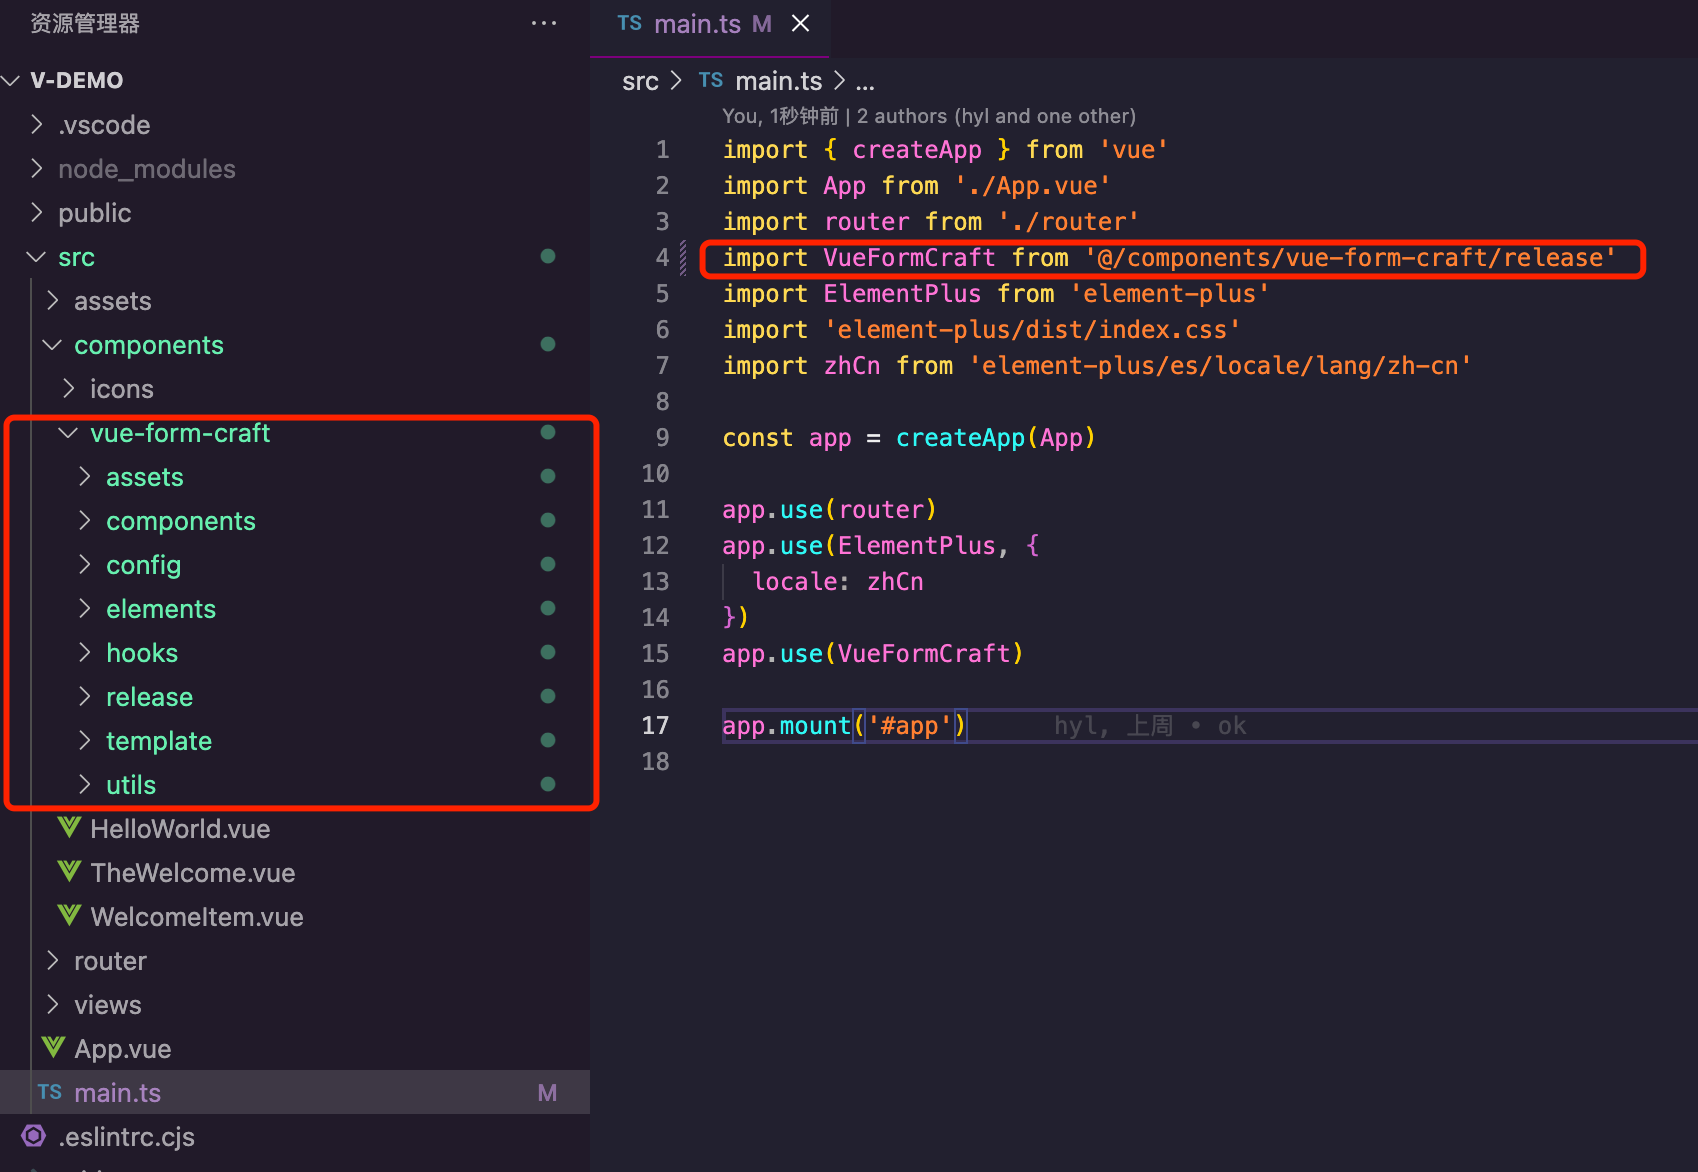
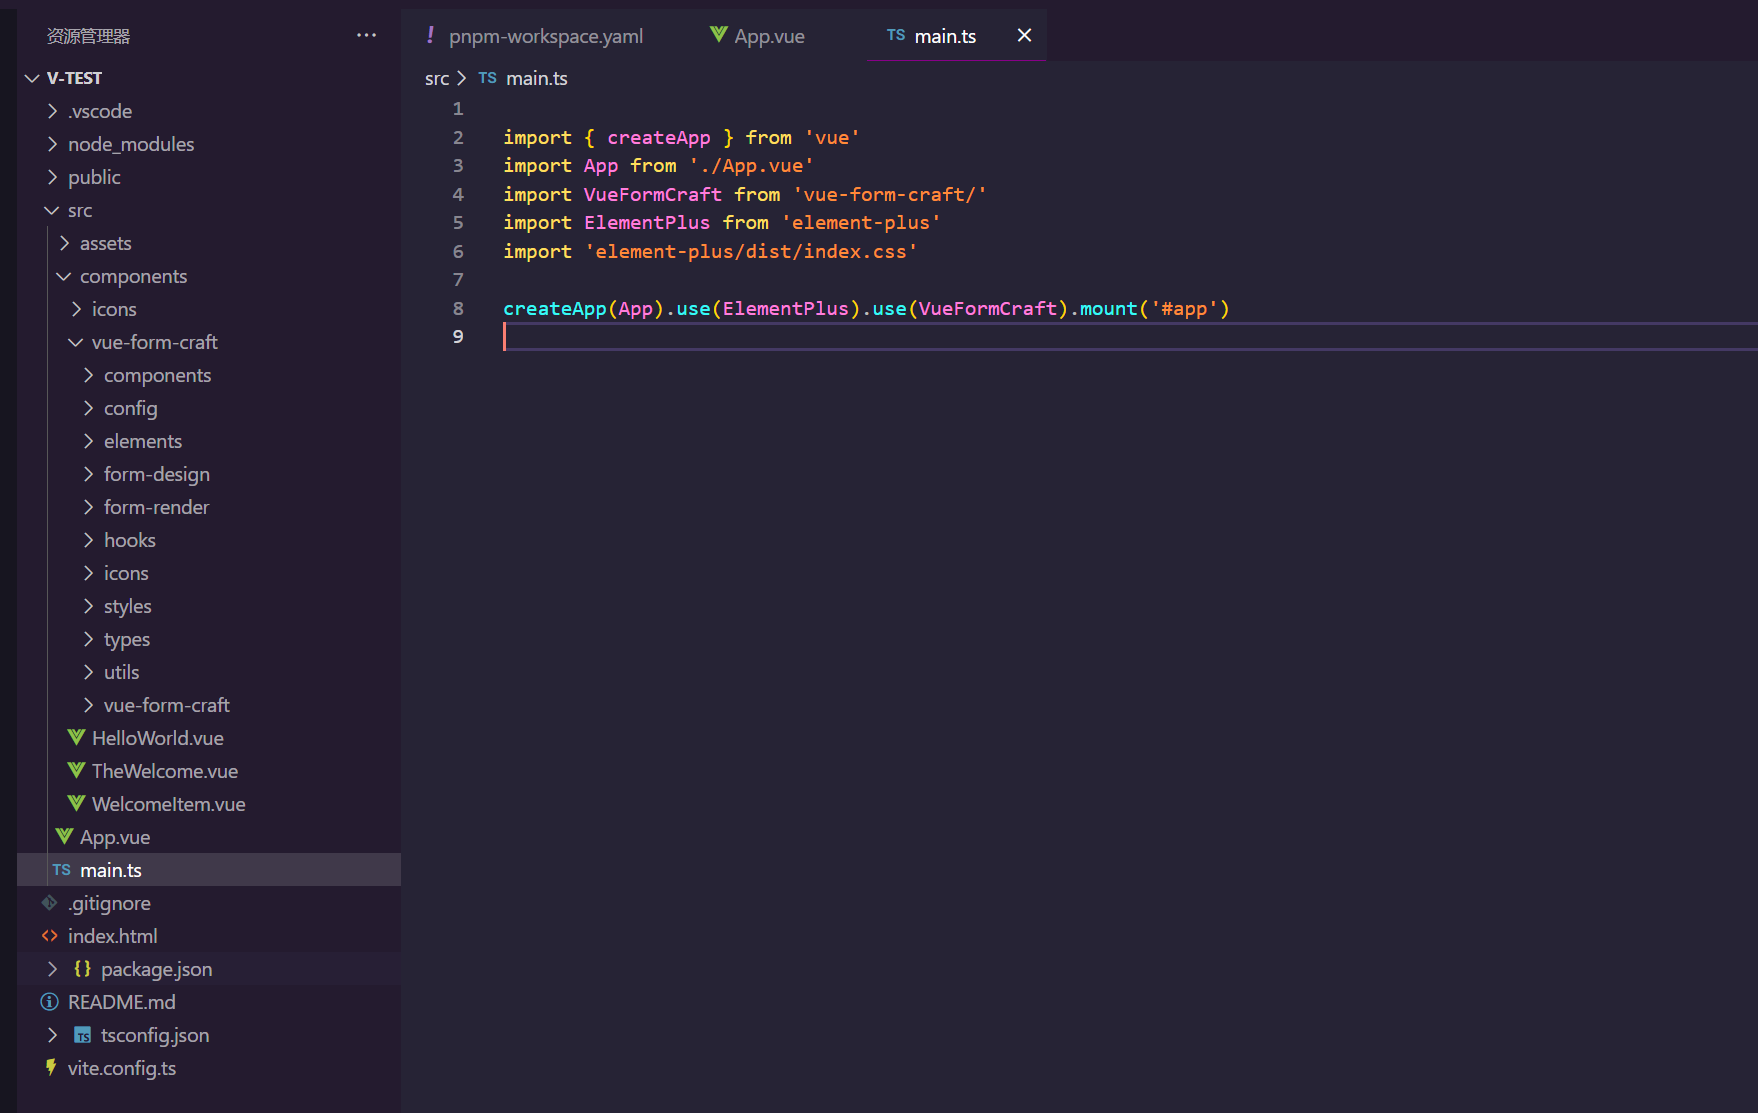
feat dev doc

diff --git a/docs/zh/dev.md b/docs/zh/dev.md
@@ -18,96 +18,56 @@ pnpm i
 pnpm dev
 ```
 
-4、构建项目，生成`dist`目录。 `dist/vue-form-craft.js`就是依赖入口！
+4、构建项目，生成`dist`目录。 
 
 ```sh
 pnpm build
 ```
 
-## 方法二
+`packages/vue-form-craft/dist/vue-form-craft.js`就是依赖入口！
 
-1、将本项目的 `src` 目录copy到你项目里的组件目录下。 比如 `src/components`下，并重命名为 `vue-form-craft`
+## 方法二 （copy源码）
+
+>由于本项目采用了`monerepo`组织代码，所以源码搬到你项目里，会让你的项目也变成这种模式。所以看情况选用
 
 
-2、引入 `vue-form-craft/release` 到 `main.ts` 里注册即可。
+1、将本项目的 `packages` 目录copy到你项目里的组件目录下。 比如 `src/components`下，并重命名为 `vue-form-craft`
 
-<img src="../assets/dev.png" />
+2、在你的项目根目录下，新建`pnpm-workspace.yaml`，写入以下配置(可根据你放入的位置调整)
 
-3、`vite.config.ts`增加一条路径别名配置
+```yaml
 
-```ts
-import { fileURLToPath, URL } from 'node:url'
-
-import { defineConfig } from 'vite'
-import vue from '@vitejs/plugin-vue'
-import vueJsx from '@vitejs/plugin-vue-jsx'
-
-// https://vitejs.dev/config/
-export default defineConfig({
-  plugins: [
-    vue(),
-    vueJsx(),
-  ],
-  resolve: {
-    alias: {
-      '@': fileURLToPath(new URL('./src', import.meta.url)),
-      '@vue-form-craft': fileURLToPath(new URL('./src/components/vue-form-craft', import.meta.url))
-    }
-  }
-})
+packages:
+  - 'src/components/vue-form-craft/*'
 
 ```
 
-4、如果你项目里使用了`TypeScript`，则需要在`tsconfig.json`里也增加一条路径别名配置
+3、`修改package.json` 增加以下依赖，然后pnpm i
 
 ```json
-{
-  "extends": "@vue/tsconfig/tsconfig.dom.json",
-  "include": ["env.d.ts", "src/**/*", "src/**/*.vue"],
-  "exclude": ["src/**/__tests__/*"],
-  "compilerOptions": {
-    "composite": true,
-    "tsBuildInfoFile": "./node_modules/.tmp/tsconfig.app.tsbuildinfo",
-    "types": ["vue-form-craft/global"],
-    "baseUrl": ".",
-    "paths": {
-      "@/*": ["./src/*"],
-      "@vue-form-craft/*": ["./src/components/vue-form-craft/*"],
-    }
-  }
-}
+  ...
+  "dependencies": {
+    ...
+    "@vue-form-craft/components": "workspace:*",
+    "@vue-form-craft/config": "workspace:*",
+    "@vue-form-craft/elements": "workspace:*",
+    "@vue-form-craft/form-design": "workspace:*",
+    "@vue-form-craft/form-render": "workspace:*",
+    "@vue-form-craft/hooks": "workspace:*",
+    "@vue-form-craft/icons": "workspace:*",
+    "@vue-form-craft/styles": "workspace:*",
+    "@vue-form-craft/types": "workspace:*",
+    "@vue-form-craft/utils": "workspace:*",
+    "vue-form-craft": "workspace:*",
+    "@vue/test-utils": "^2.4.6",
+    "element-plus": "^2.8.3",
+    "lodash": "^4.17.21",
+    "vue": "^3.5.13",
+    "vuedraggable-es-fix": "^1.0.1",
+    "sass": "~1.32.6"
+  },
 ```
 
-5、最后，你的项目里还需要安装一些依赖，可以根据报错提示来安装缺少的依赖。
+4、引入 `vue-form-craft/` 到 `main.ts` 里注册即可。
 
-```sh
-npm i lodash vuedraggable-es  json-editor-vue3 ... 
-```
-
-6、如果出现报错`Uncaught SyntaxError: The requested module '/node_modules/.pnpm/jsoneditor@9.10.5/node_modules/jsoneditor/dist/jsoneditor.min.js?v=3fb8ead3' does not provide an export named 'default' (at json-editor.vue:2:8)`
-
-那么还需要增加依赖`@originjs/vite-plugin-commonjs`。
-
-```ts
-import { fileURLToPath, URL } from 'node:url'
-
-import { defineConfig } from 'vite'
-import vue from '@vitejs/plugin-vue'
-import vueJsx from '@vitejs/plugin-vue-jsx'
-import { viteCommonjs } from '@originjs/vite-plugin-commonjs'
-
-// https://vitejs.dev/config/
-export default defineConfig({
-  plugins: [
-    vue(),
-    vueJsx(),
-    viteCommonjs()
-  ],
-  resolve: {
-    alias: {
-      '@': fileURLToPath(new URL('./src', import.meta.url)),
-      '@vue-form-craft': fileURLToPath(new URL('./src/components/vue-form-craft', import.meta.url))
-    }
-  }
-})
-```
+<img src="../assets/dev.png" />
